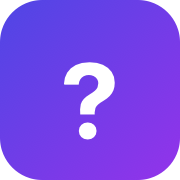
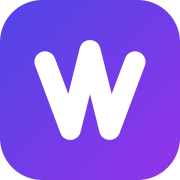
brand: 全站统一 AgentWHY 大小写，新 W 字母标识替换问号

Changed region(s): [[0.1667, 0.2222, 0.8333, 0.7778]]

diff --git a/index.html b/index.html
@@ -59,11 +59,11 @@
             </linearGradient>
           </defs>
           <rect width="64" height="64" rx="15" fill="url(#logoG)"/>
-          <text x="32" y="35" font-size="38" font-weight="700" fill="#fff"
-                text-anchor="middle" dominant-baseline="central"
-                font-family="-apple-system, 'PingFang SC', sans-serif">?</text>
+          <polyline points="16,22 25,46 32,18 39,46 48,22"
+                    fill="none" stroke="#fff" stroke-width="7.5"
+                    stroke-linecap="round" stroke-linejoin="round"/>
         </svg>
-        agent<span class="why">why</span>
+        Agent<span class="why">WHY</span>
       </a>
 
       <nav class="nav-links" aria-label="主导航">
@@ -99,14 +99,14 @@
   <main id="main">
     <!-- ================= Hero ================= -->
     <section class="hero">
-      <div class="hero-mark mono" aria-hidden="true">?</div>
+      <div class="hero-mark mono" aria-hidden="true">W</div>
       <div class="container">
         <div class="hero-inner">
           <p class="hero-eyebrow mono reveal">
-            <span class="status-dot" aria-hidden="true"></span>whykits / agentwhy
+            <span class="status-dot" aria-hidden="true"></span>whykits / AgentWHY
           </p>
 
-          <h1 class="hero-title reveal d1">Agent <em>WHY</em></h1>
+          <h1 class="hero-title reveal d1">Agent<em>WHY</em></h1>
 
           <p class="hero-sub reveal d2">
             一个探索「高效应用 AI」的实验项目。<br>
